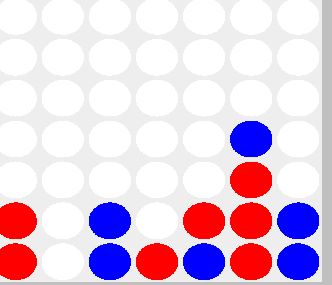
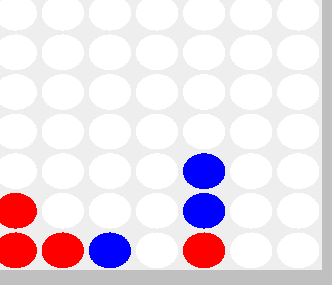
environment optimized

Changed region(s): [[0.0, 0.4211, 0.994, 1.0]]

diff --git a/code/basic/GameSimulator.java b/code/basic/GameSimulator.java
@@ -33,9 +33,47 @@ public class GameSimulator {
 
     public static void main(String[] args) {
         GameSimulator simu = new GameSimulator();
-        // simu.singleGame();
-        // simu.competion();
 
+        //simu.singleGame();
+        //simu.competion();
+        simu.longCompetition(10000);
+
+    }
+
+    private void longCompetition(int rounds) {
+        // make quite long competition between some players while GUI is kept active
+
+        String[] allPlayerNames = { "RandomPlayer", "FirstPlayer", "MiddlePlayer", "SeqPlayer", "SucherSE",
+                "JFBR15Player", "BrainlessPlayer", "BlockerPlayer", "TobiasKohlPlayer", "NGPlayer" };
+
+        int currentIndex = 0;
+
+        for(int i=0; i<rounds; i++)
+        {
+            Player playerRed = playerFromName("NGKerasPlayer");
+            Player playerBlue = playerFromName(allPlayerNames[currentIndex]);
+
+            Player[] myPlayers = {playerRed, playerBlue};
+
+            game = new Game();
+            game.setGui(gui);
+
+            gui.setP1Name(playerRed.name);
+            gui.setP2Name(playerBlue.name);
+
+            log.info("Game #" + i + " " + playerRed.getName() + " vs. " + playerBlue.getName());
+
+            Player winner = game.play(myPlayers);
+
+            log.info("----- Winner:" + winner);
+
+            try {Thread.sleep(2000);} catch (InterruptedException e) {e.printStackTrace();}
+
+            currentIndex++;
+
+            if(currentIndex == allPlayerNames.length)
+                currentIndex = 0;
+        }
     }
 
     public Position singleGameGUI( Player[] players ) {
@@ -51,38 +89,9 @@ public class GameSimulator {
             e.printStackTrace();
         }
 
-        /*
-        // make quite long competition between some players while GUI is kept active
 
-        String[] allPlayerNames = { "RandomPlayer", "FirstPlayer", "MiddlePlayer", "SeqPlayer", "SucherSE",
-                "JFBR15Player", "BrainlessPlayer", "BlockerPlayer", "TobiasKohlPlayer", "NGPlayer" };
 
-        int currentIndex = 0;
 
-        for(int i=0; i<10000; i++)
-        {
-            Player playerRed = playerFromName("NGKerasPlayer");
-            Player playerBlue = playerFromName("NGPlayer");
-            //Player playerBlue = playerFromName(allPlayerNames[currentIndex]);
-
-            Player[] myPlayers = {playerRed, playerBlue};
-
-            game = new Game();
-            game.setGui(gui);
-
-            log.info("Game #" + i + " " + playerRed.getName() + " vs. " + playerBlue.getName());
-
-            Player winner = game.play(myPlayers);
-
-            log.info("----- Winner:" + winner);
-
-            try {Thread.sleep(2000);} catch (InterruptedException e) {e.printStackTrace();}
-
-            currentIndex++;
-
-            if(currentIndex == allPlayerNames.length)
-                currentIndex = 0;
-        }*/
 
         return game.getPosition();
     }

diff --git a/code/basic/GUI.java b/code/basic/GUI.java
@@ -52,6 +52,15 @@ public class GUI implements ActionListener, ChangeListener {
 	private GameSimulator gameSimulator;
 	private Board board;
 	private boolean verbose = true;
+
+	public void setP1Name(String p1Name) {
+		this.p1Name = p1Name;
+	}
+
+	public void setP2Name(String p2Name) {
+		this.p2Name = p2Name;
+	}
+
 	private String p1Name;
 	private String p2Name;
 	private JButton startButton = new JButton("Spiel");
